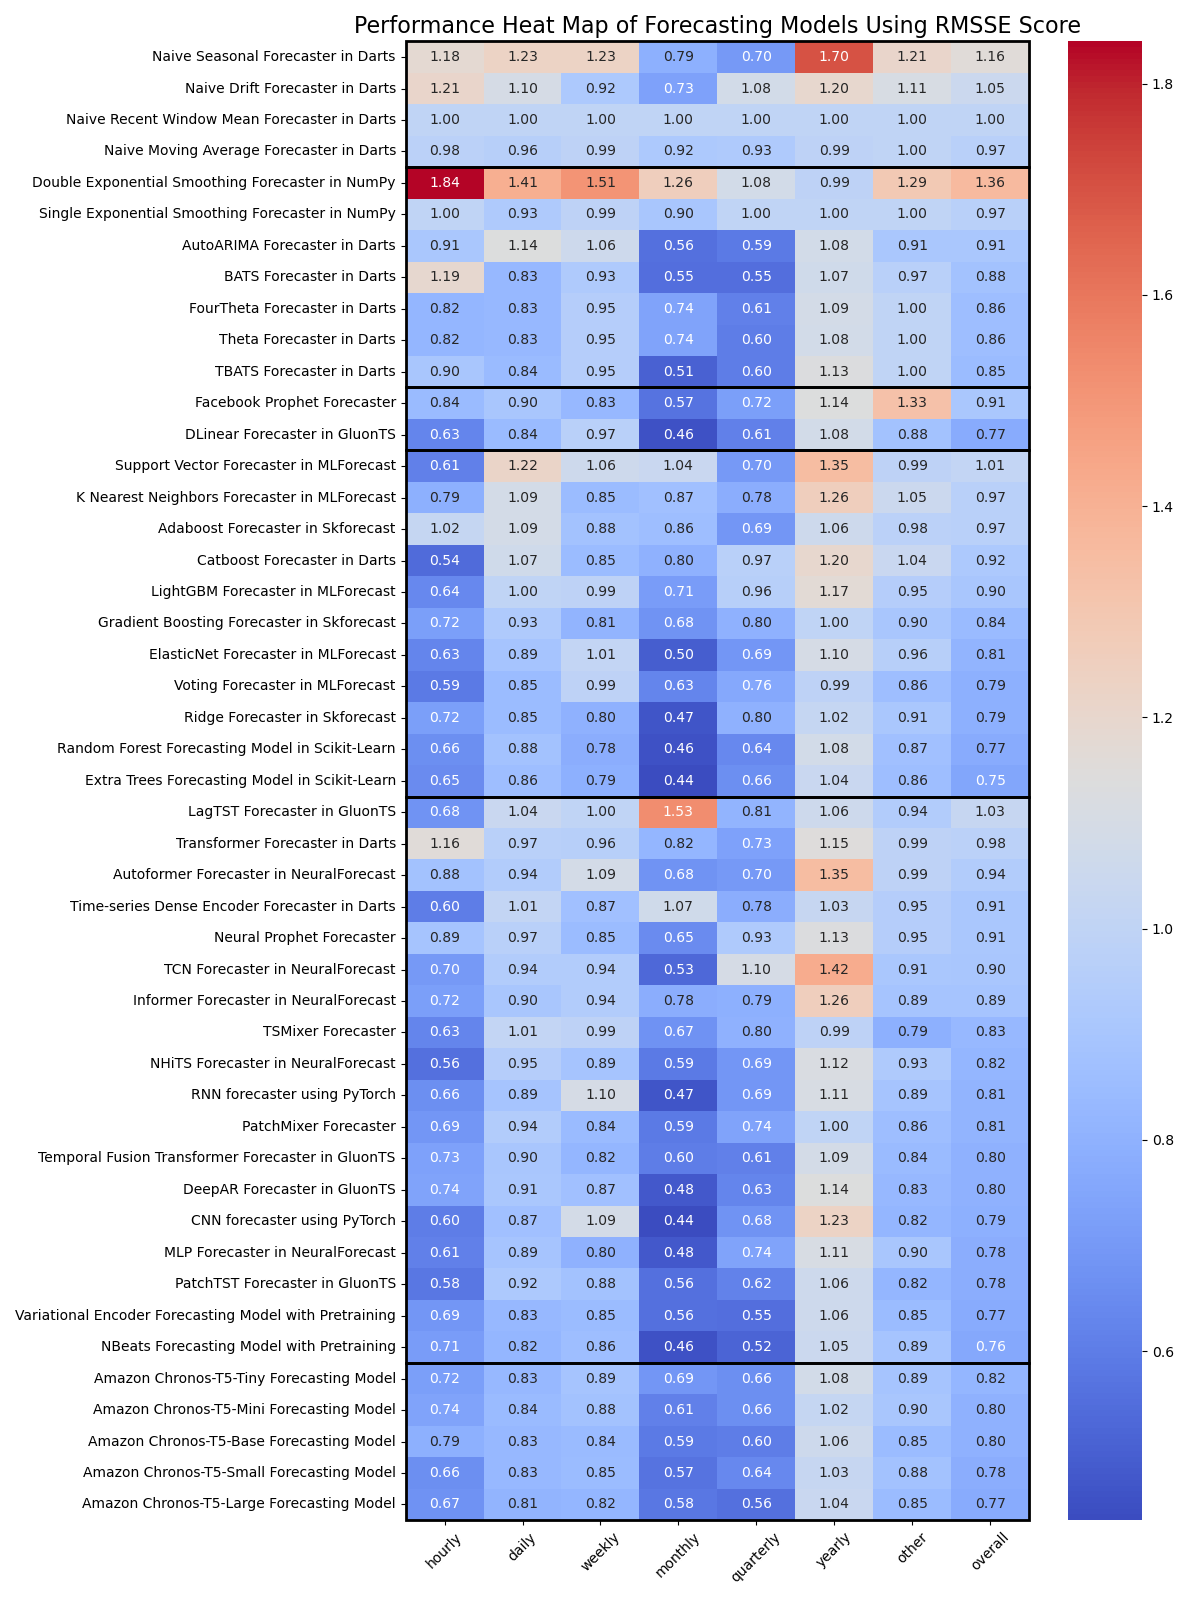
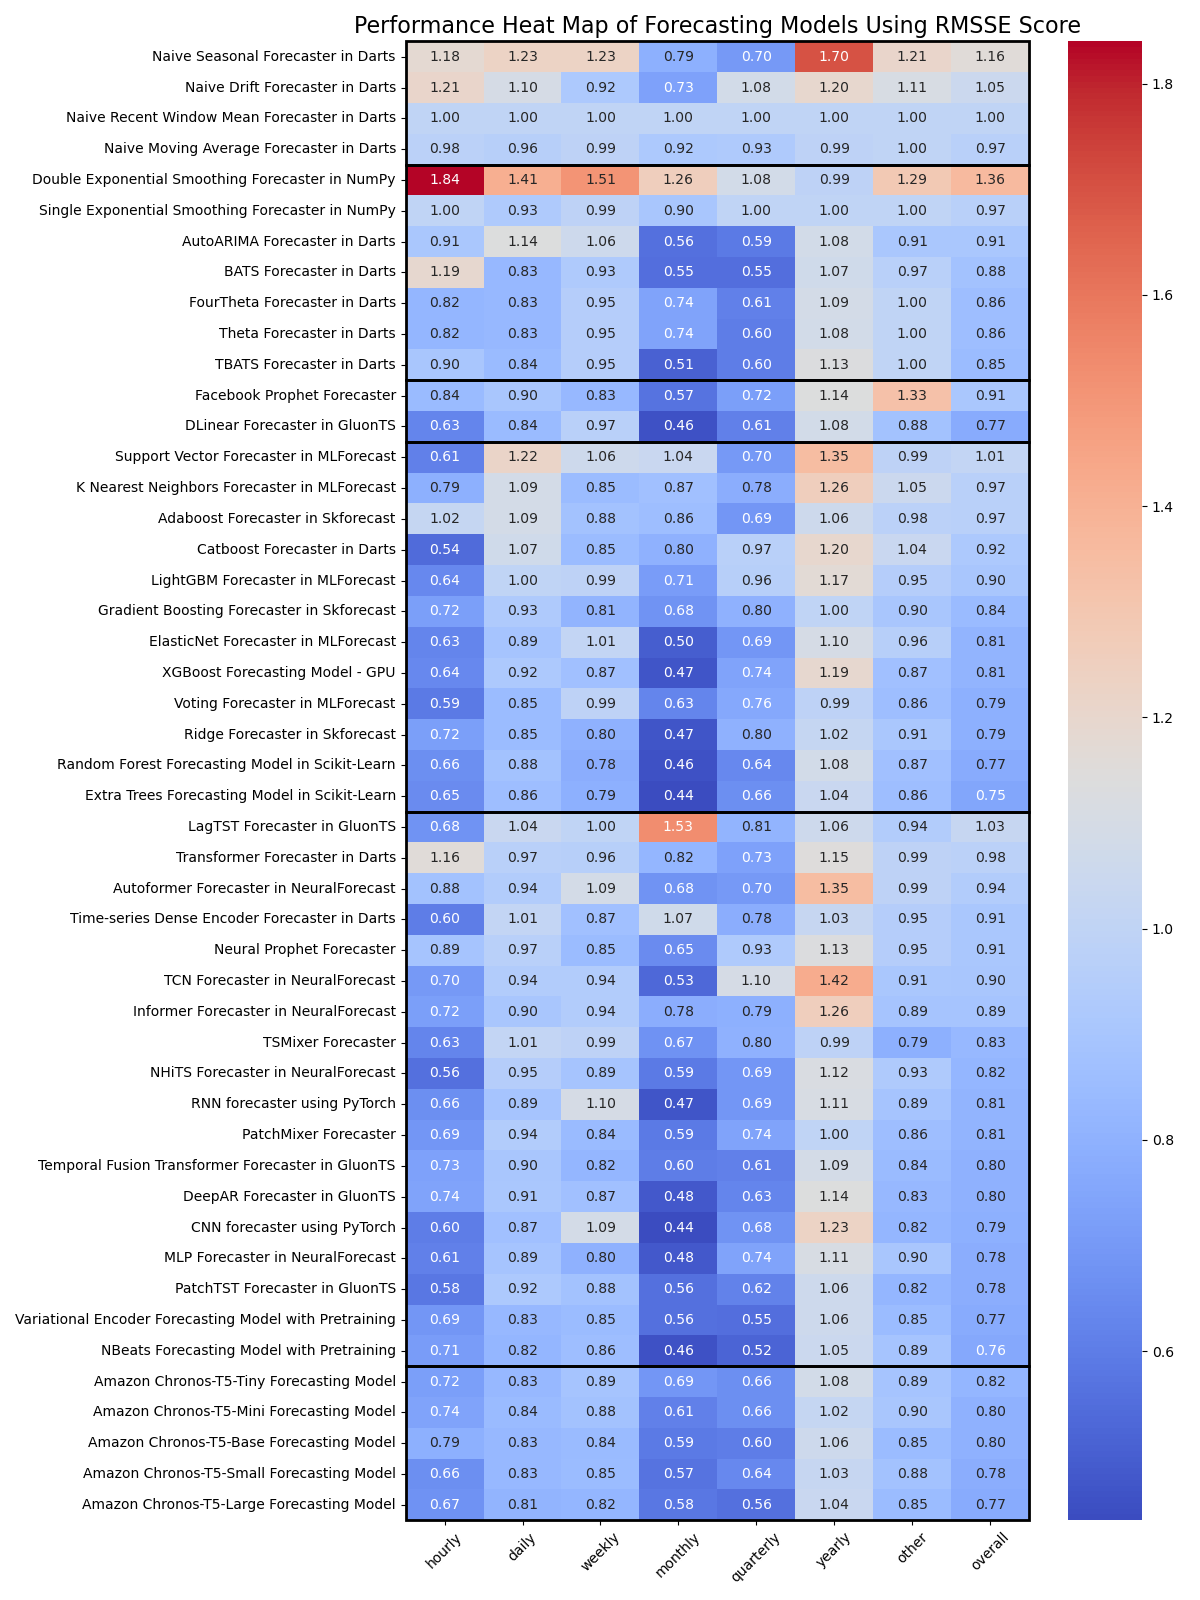
add missing xgb results

Changed region(s): [[0.0308, 0.0312, 0.8633, 0.9375], [0.37, 0.9062, 0.4008, 0.9375]]

diff --git a/src/f2_create_chart.py b/src/f2_create_chart.py
@@ -1,0 +1,73 @@
+import pandas as pd
+import seaborn as sns
+import matplotlib.pyplot as plt
+import chardet
+import sys
+
+# Load the benchmarking results
+file_path = './../outputs/aggregate-scores.csv'
+heatmap_file_path = './../outputs/forecasting_models_heatmap.png'
+
+def read_data(file_path):
+    with open(file_path, 'rb') as file:
+        result = chardet.detect(file.read())
+    encoding = result['encoding']
+    df = pd.read_csv(file_path, encoding=encoding)
+    return df
+
+
+def create_and_save_heatmap_chart(df):
+
+    # Calculate start and end index for each group
+    group_bounds = []
+    for group_name, group_df in df.groupby('category'):
+        start_index = group_df.index.min()
+        end_index = group_df.index.max()
+        group_bounds.append((start_index, end_index))
+    sorted_group_bounds = sorted(group_bounds, key=lambda x: x[0])
+
+
+    # Set 'model_name' as the index to use it as row labels
+    data_models_only_index = df.drop('category', axis=1).set_index('model_name')
+
+    # Select only the numeric data for visualization
+    numeric_data_models_only = data_models_only_index.select_dtypes(include='number')
+
+    # Creating the heatmap
+    plt.figure(figsize=(12, 16))
+    ax = sns.heatmap(numeric_data_models_only, annot=True, fmt=".2f", cmap="coolwarm", cbar=True, 
+                    vmin=numeric_data_models_only.min().min(), vmax=numeric_data_models_only.max().max())
+
+    # Title and adjustments
+    plt.title('Performance Heat Map of Forecasting Models Using RMSSE Score', fontsize=16)
+    plt.xticks(rotation=45)
+    plt.ylabel('')  # Remove the x-axis label
+    plt.tight_layout()
+
+    # Defining the boxes' start and end rows (Python uses 0-based indexing)
+    # Adding borders around specified groups of models
+    for start, end in sorted_group_bounds:
+        ax.add_patch(
+            plt.Rectangle(
+                (0, start), 
+                numeric_data_models_only.shape[1],
+                end-start+1,
+                fill=False,
+                edgecolor='black',
+                lw=2,
+                clip_on=False
+            )
+        )
+
+    # Save the figure
+    plt.savefig(heatmap_file_path)
+    plt.close()  # Close the plot to prevent it from displaying again
+
+
+def create_heatmap_chart():
+    df = read_data(file_path)
+    create_and_save_heatmap_chart(df)
+
+
+if __name__ == '__main__':
+    create_heatmap_chart()

diff --git a/src/main.py b/src/main.py
@@ -1,0 +1,10 @@
+from f1_aggregate_results import aggregate_and_save_scores
+from f2_create_chart import create_heatmap_chart
+
+
+def main():
+    aggregate_and_save_scores()
+    create_heatmap_chart()
+
+if __name__ == "__main__":
+    main()
